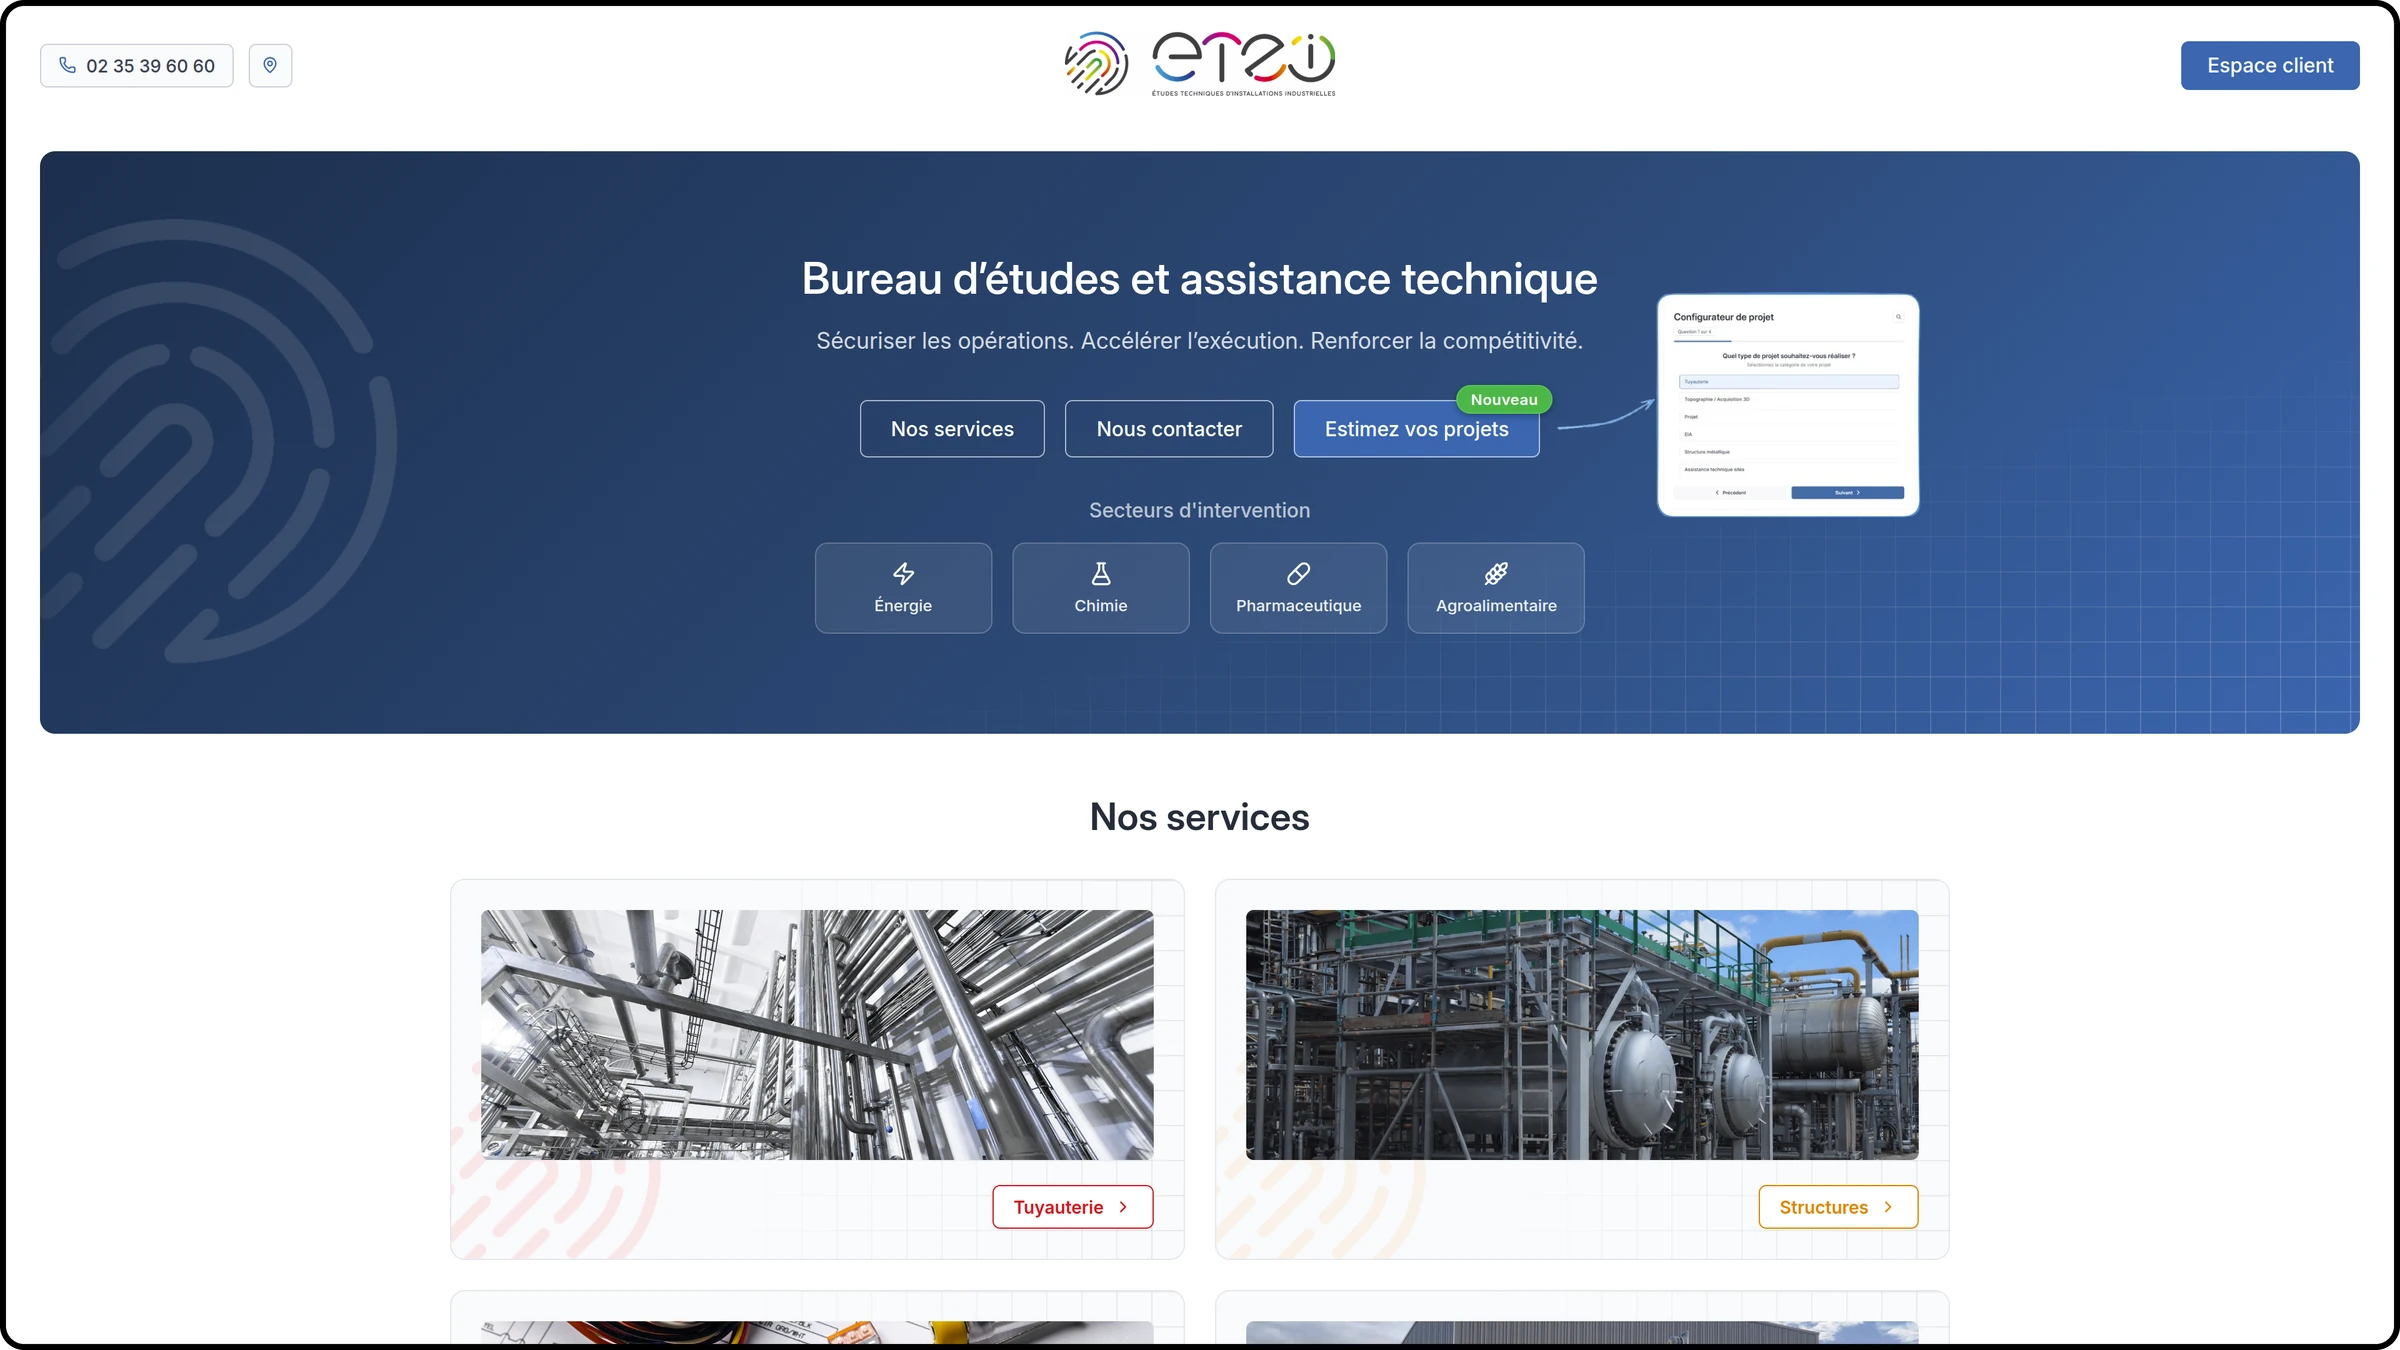
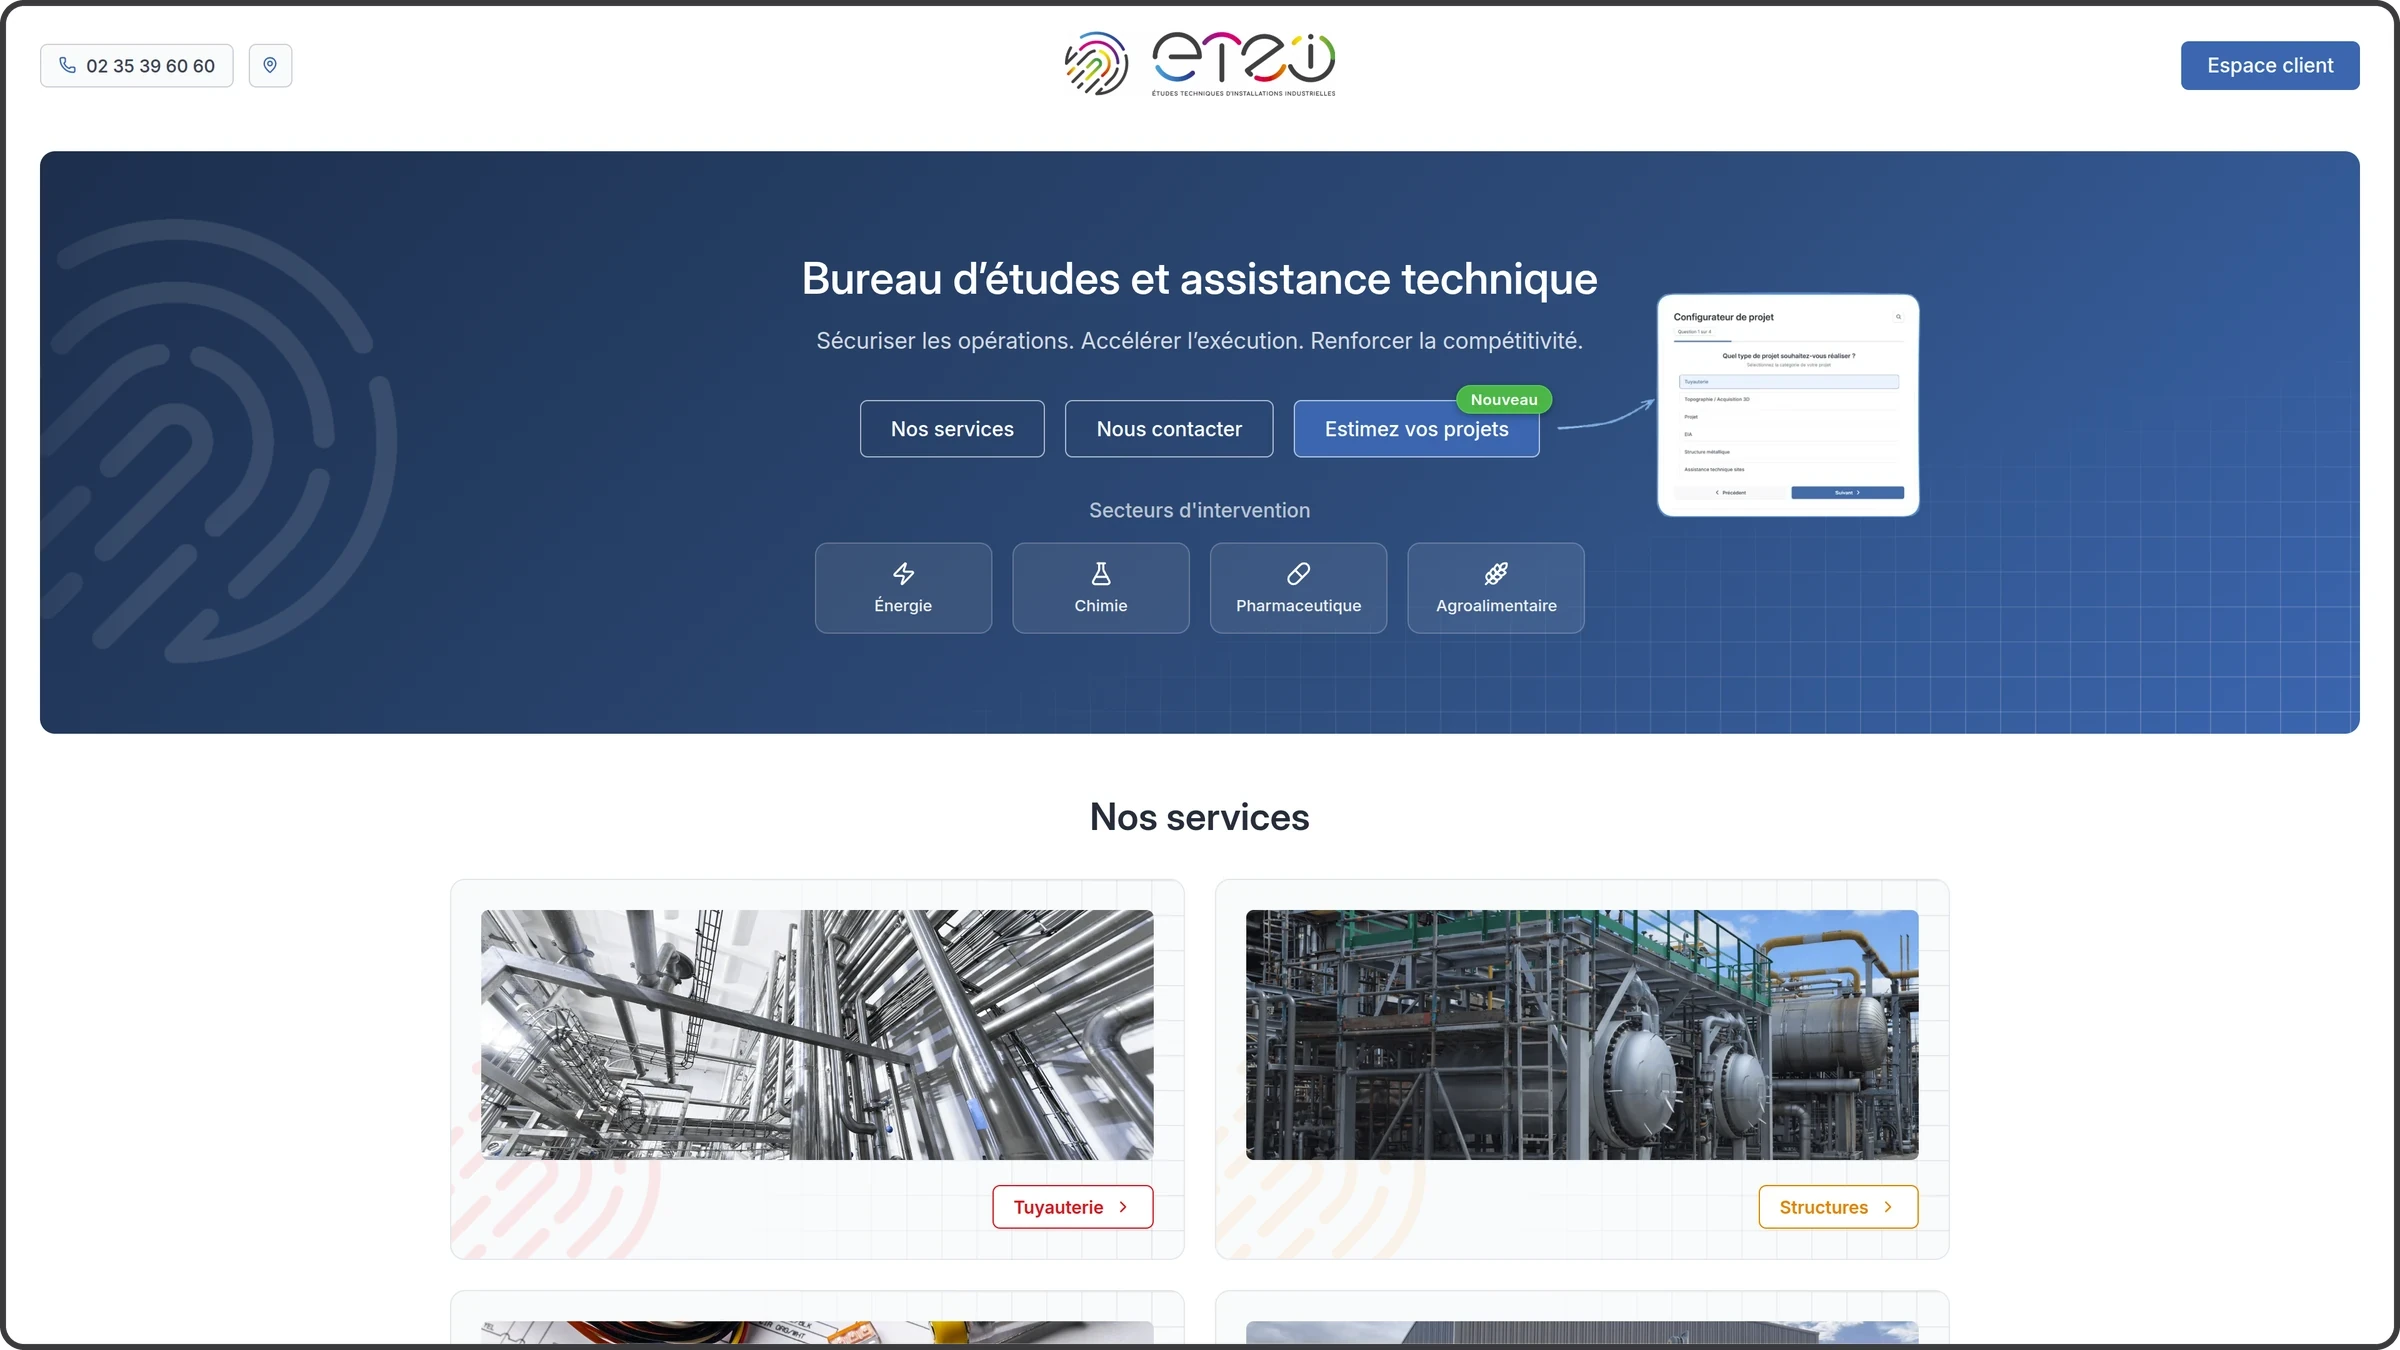
chore: update texts

Changed region(s): [[0.0, 0.9956, 1.0, 1.0], [0.0, 0.0, 1.0, 0.0311]]

diff --git a/src/pages/ProjectsPage.tsx b/src/pages/ProjectsPage.tsx
@@ -34,7 +34,7 @@ export default function ProjectsPage() {
                                 rel="noopener"
                                 className="work-status"
                             >
-                                Actuellement chez ACAI
+                                En poste chez ACAI
                                 <svg
                                     xmlns="http://www.w3.org/2000/svg"
                                     width="12"
@@ -52,7 +52,7 @@ export default function ProjectsPage() {
                             </a>
                         </div>
                         <span className="stack">
-                            Applications web, workflows et automatisations IA pour les entreprises.
+                            Applications web, workflows et intégrations IA pour les entreprises.
                         </span>
                         <div className="social">
                             <a href="https://github.com/JulienLach" target="_blank" rel="noopener" aria-label="GitHub">
@@ -116,8 +116,8 @@ export default function ProjectsPage() {
                 <section className="intro">
                     <p>
                         Développeur d'applications basé en France, j'accompagne les équipes et les entreprises dans leur
-                        digitalisation : je conçois, développe et déploie des outils sur mesure qui répondent à de
-                        vrais besoins métier.
+                        digitalisation : je conçois, développe et déploie des outils sur mesure qui répondent à de vrais
+                        besoins métier.
                     </p>
                     <p>
                         Mes derniers projets : plateformes SaaS, intégrations ERP et PWA mobiles. J'y ajoute souvent un
